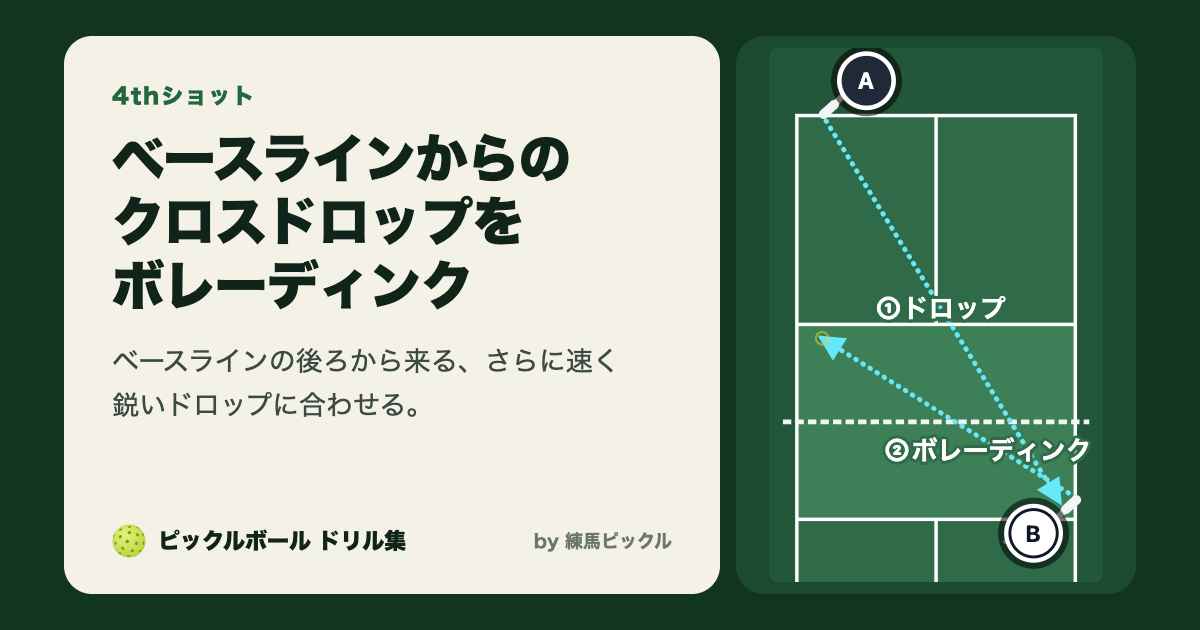
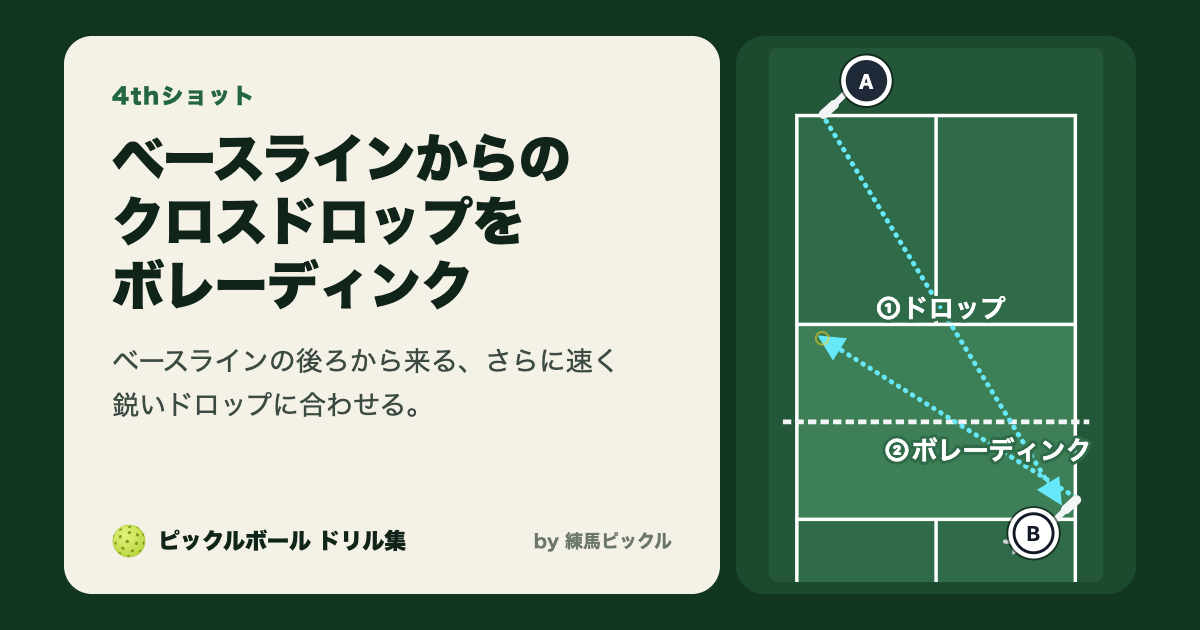
Players: shrink the disc so the dark halo stays within the original size
Claude-Session: https://claude.ai/code/session_013HpVCq95JLREtWQF64J4S6

Changed region(s): [[0.6783, 0.0603, 0.7708, 0.181], [0.8325, 0.7841, 0.8942, 0.9048]]

diff --git a/src/styles/court.css b/src/styles/court.css
@@ -305,7 +305,7 @@
 	font-size: 2px;
 }
 .court .player text {
-	font-size: 1.1px;
+	font-size: 1px;
 	font-weight: 700;
 	text-anchor: middle;
 	dominant-baseline: central;
@@ -315,7 +315,7 @@
 .court .player .halo {
 	fill: none;
 	stroke: rgb(0 0 0 / 0.55);
-	stroke-width: 0.6;
+	stroke-width: 0.4;
 }
 .court .player .body {
 	fill: var(--person);
@@ -355,7 +355,7 @@
 
 /* 共有のプレビュー画像（止まった1枚の図）は、人を 1.5 倍で描く（Court.astro の FIG と合わせる） */
 .court.still .player text {
-	font-size: 1.65px;
+	font-size: 1.5px;
 }
 .court.still .player .body {
 	stroke-width: 0.33;

diff --git a/docs/decisions.md b/docs/decisions.md
@@ -97,4 +97,4 @@
 - ドリルの共有画像を2つ直した。(1) 止まった1枚の図で、線の名前どうしが重なるときは、あとの名前を上下に1段ずつずらす（Court.astro）。①などの番号を付けた長さで、図の左右からはみ出さないように寄せる。(2) 題名は、空白で区切った短いまとまり（9字まで、→ は前の語に付ける）を途中で折り返さず、18字を超える題名は文字を少し小さくする。「玉」や「の」だけで行が切れていたため。
 - ドリルの共有画像の図で、人（体・腕・パドル・文字）を1.5倍で描き、図の左右の余白を詰めた（Court.astro の FIG、court.css の .court.still）。LINE などのカードでは A・B が小さすぎて読めなかったため。ドリルのページの図（アニメーション）は変えない。全面を描く図（サーブやリターンから始まるもの）は、縦に長く、これ以上は大きくできない。
 - サイドバーのカテゴリ名の後ろに、そのカテゴリのドリルの数を小さな灰色の数字で出した（書き手の希望）。Starlight のバッジの仕組みを使い、枠と色を消している（custom.css の .drill-count）。数は設定を読むときにフォルダのファイルを数える。
-- 人の丸の外側に暗い縁（半透明の黒）を付けた。白い練習役の丸がキッチンラインなどの白い線と重なると、境目が分かりにくかったため（書き手の意見）。図の色の決まり（色を使うのはボールと打球だけ）は変えない。
+- 人の丸の外側に暗い縁（半透明の黒）を付けた。白い練習役の丸がキッチンラインなどの白い線と重なると、境目が分かりにくかったため（書き手の意見）。図の色の決まり（色を使うのはボールと打球だけ）は変えない。縁を足して人が大きく見えたので、丸を小さくして、縁の外側が元の丸の大きさに収まるようにした（書き手の意見）。
